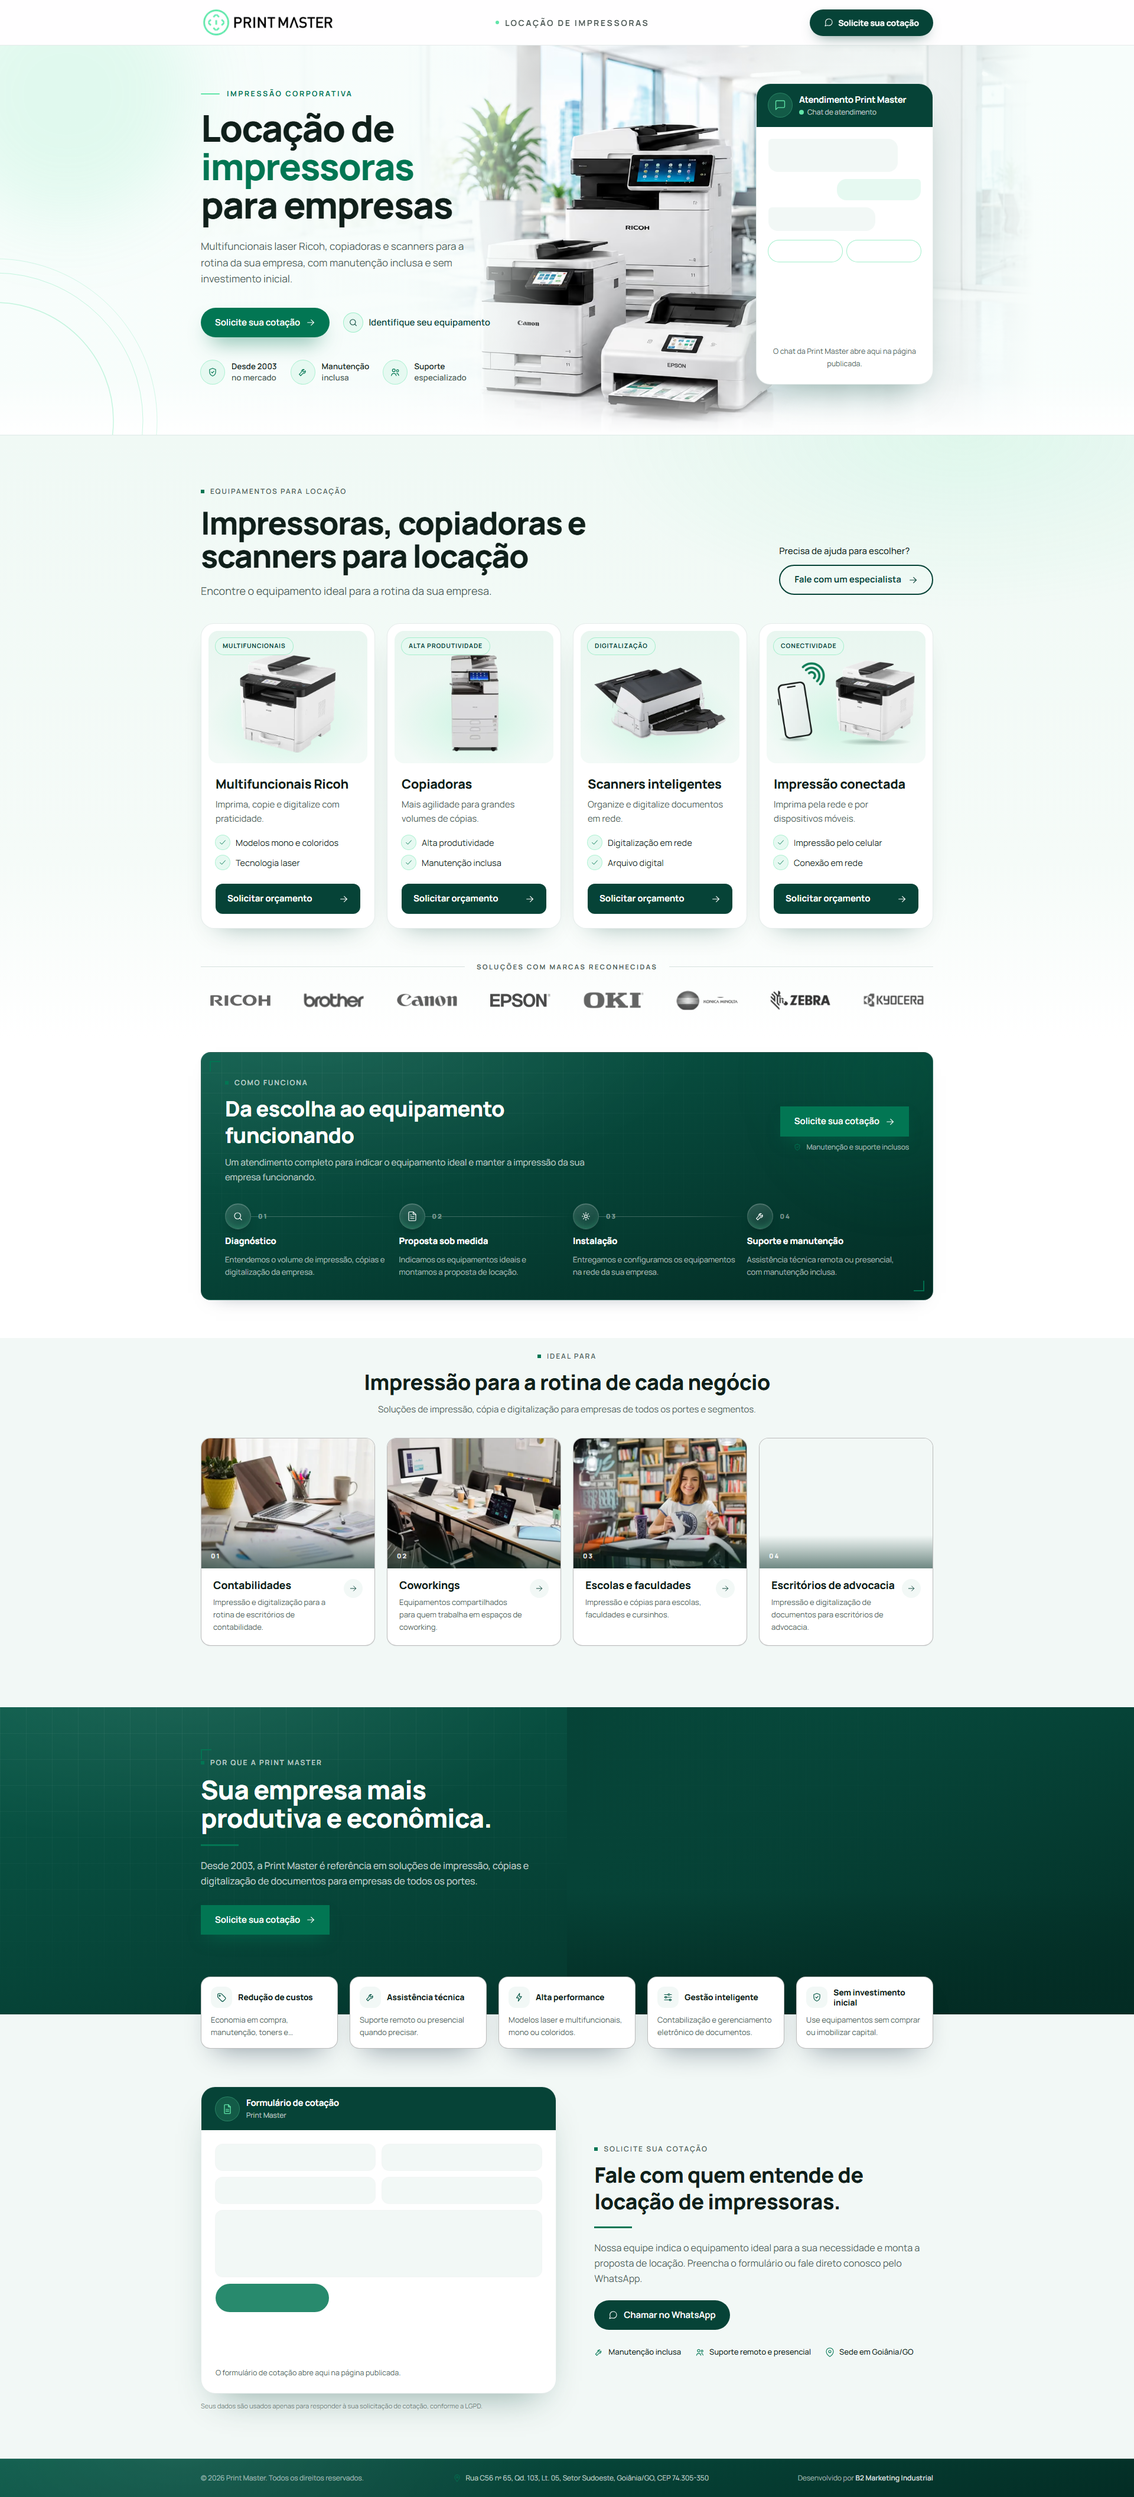
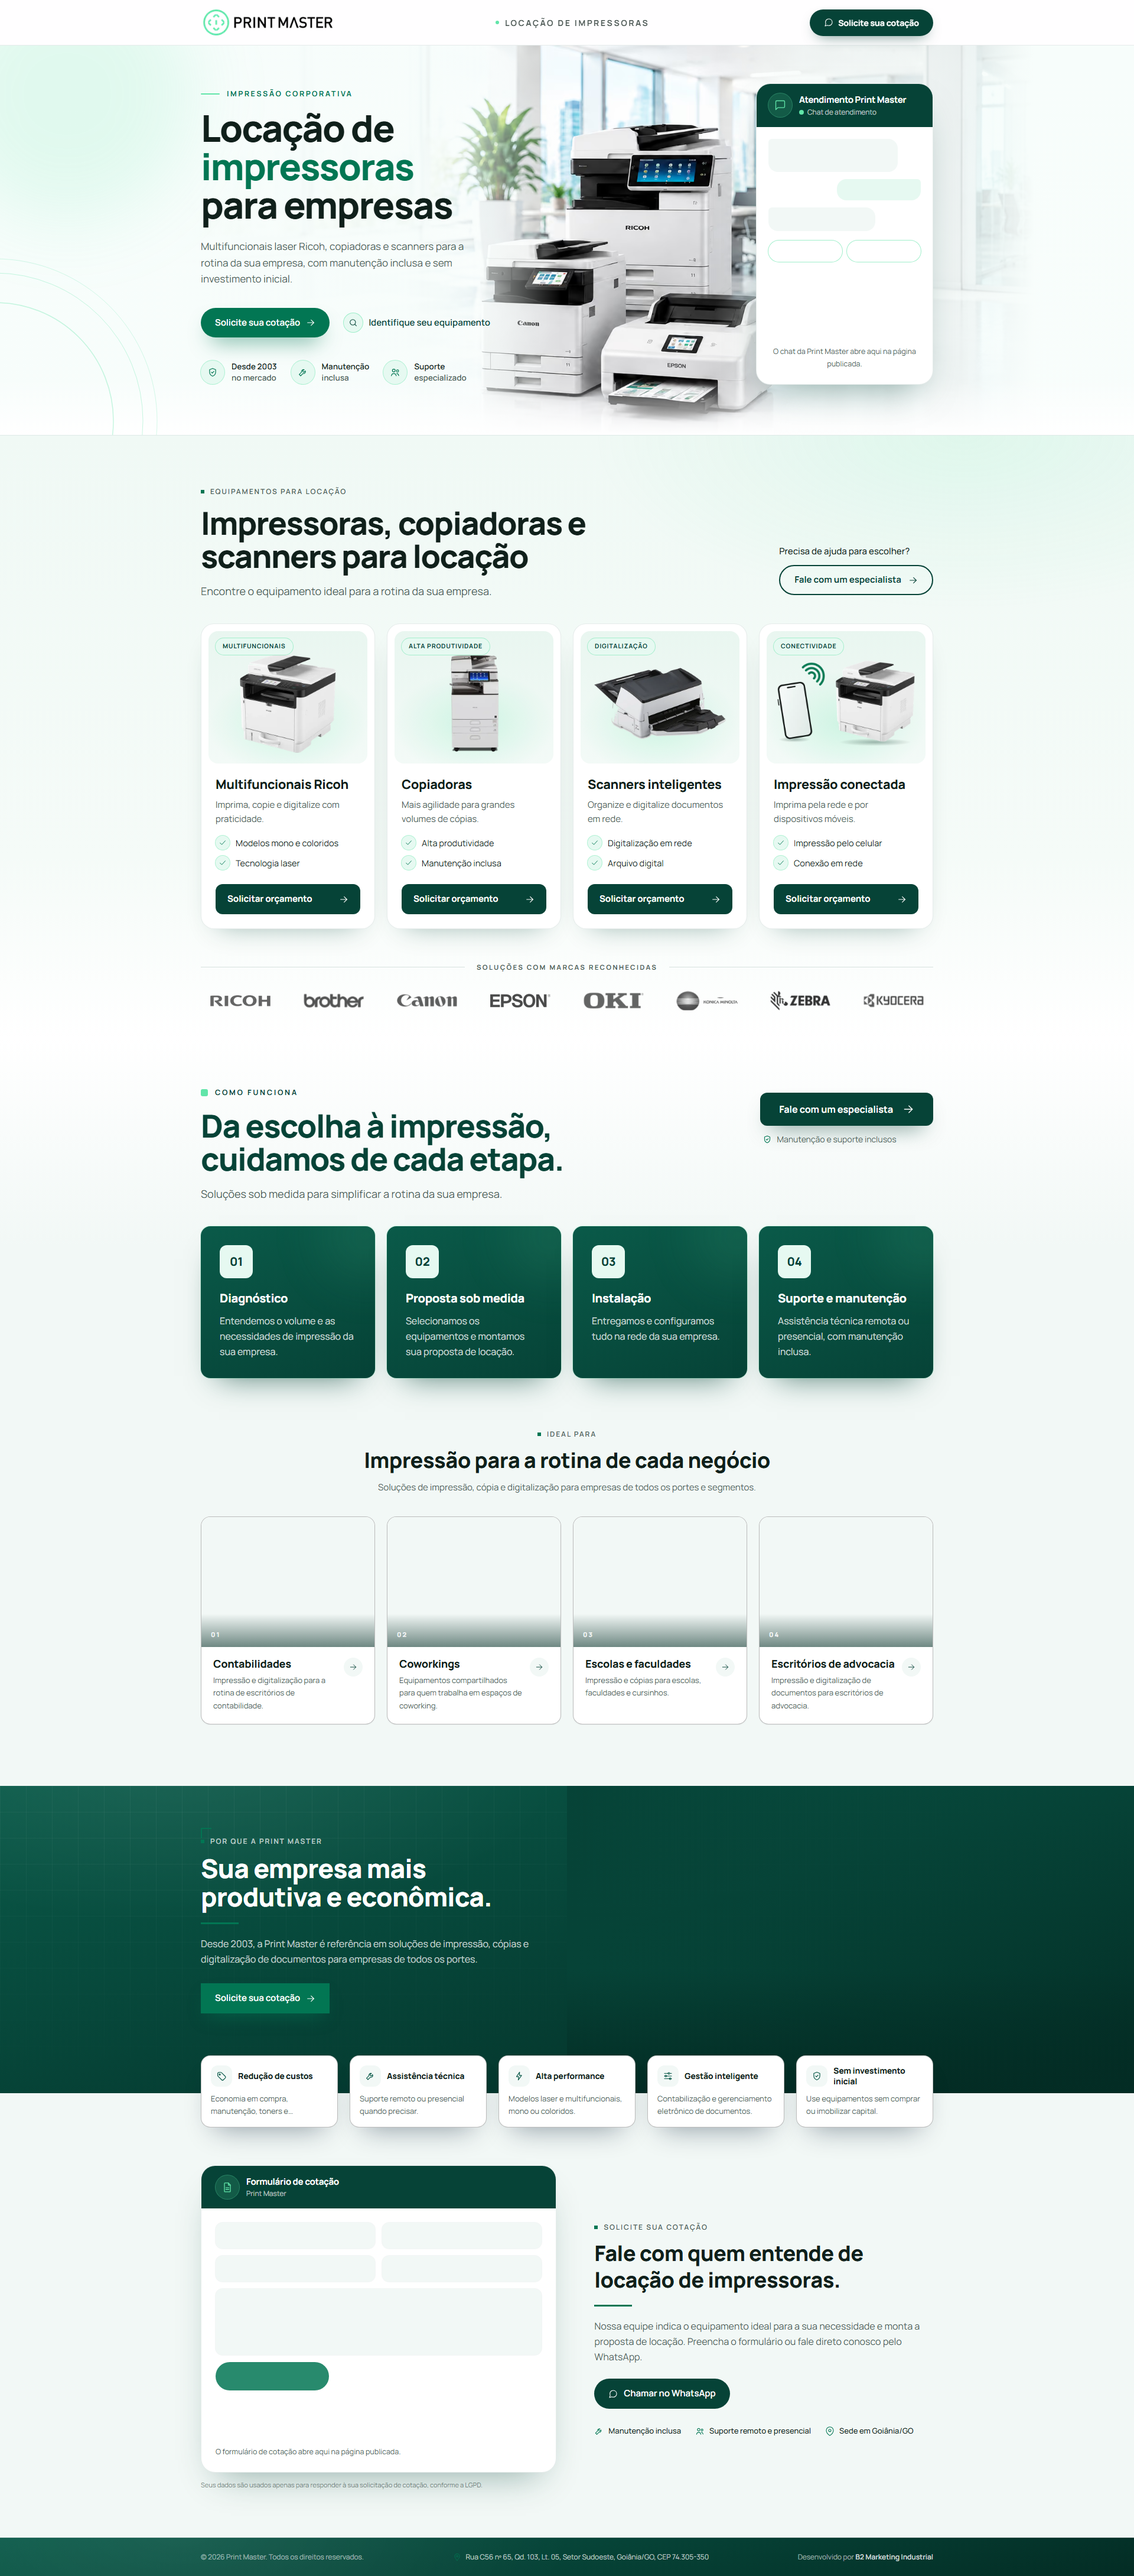
feat: "Como funciona" no mockup da Print Master
- Cabeçalho claro: "Da escolha à impressão, cuidamos de cada etapa.",
  subtítulo curto, botão "Fale com um especialista" e a garantia
  "Manutenção e suporte inclusos" à direita.
- Etapas em 4 cards verde-escuros numerados, sem ícones, com os textos do
  mockup; o fundo sai do branco de linhas e chega ao cinza-menta de
  aplicacoes.
- Contrato de processo repinado em lp.manifest.json (sem icon).
- Faixa de marcas: logos sem distorção no celular.
- Ficha, BRIEFING e screenshots atualizados.

Changed region(s): [[0.0, 0.0, 1.0, 0.9368], [0.1875, 0.9056, 0.375, 0.9681], [0.6875, 0.0312, 0.8125, 0.0937]]

diff --git a/src/data/sections/processo.ts b/src/data/sections/processo.ts
@@ -1,17 +1,13 @@
 /**
  * Dados da seção "Como funciona" (biblioteca B2, fase: apoio).
  *
- * Alternativa ao painel de identificação para quando o atrito do visitante não é
- * "não sei o que pedir" e sim "não sei como isso acontece" — típico de serviço,
- * instalação, adequação a norma e contrato de manutenção.
- *
- * 4 a 6 etapas. Com 3 a promessa parece rasa; com 7 ninguém lê.
+ * Variante local da Print Master (mockup aprovado em 26/10/2026, docs/BRIEFING.md):
+ * cabeçalho claro com botão à direita e 4 cards verde-escuros numerados, sem ícones.
+ * O contrato repinado (sem `icon`) está em `lp.manifest.json`.
  */
-import type { IconName } from '@data/icons'
 
 export interface ProcessStep {
   id: string
-  icon: IconName
   title: string
   description: string
   /** Prazo ou marco da etapa, 2–4 palavras. Opcional. */
@@ -26,37 +22,36 @@ export interface Process {
   eyebrow: string
   title: string
   text: string
+  /** Rótulo do botão da seção. */
+  cta: string
   microcopy: string
   steps: readonly ProcessStep[]
 }
 
 export const process: Process = {
   eyebrow: 'Como funciona',
-  title: 'Da escolha ao equipamento funcionando',
-  text: 'Um atendimento completo para indicar o equipamento ideal e manter a impressão da sua empresa funcionando.',
+  title: 'Da escolha à impressão, cuidamos de cada etapa.',
+  text: 'Soluções sob medida para simplificar a rotina da sua empresa.',
+  cta: 'Fale com um especialista',
   microcopy: 'Manutenção e suporte inclusos',
   steps: [
     {
       id: 'diagnostico',
-      icon: 'search',
       title: 'Diagnóstico',
-      description: 'Entendemos o volume de impressão, cópias e digitalização da empresa.',
+      description: 'Entendemos o volume e as necessidades de impressão da sua empresa.',
     },
     {
       id: 'proposta',
-      icon: 'file',
       title: 'Proposta sob medida',
-      description: 'Indicamos os equipamentos ideais e montamos a proposta de locação.',
+      description: 'Selecionamos os equipamentos e montamos sua proposta de locação.',
     },
     {
       id: 'instalacao',
-      icon: 'gear',
       title: 'Instalação',
-      description: 'Entregamos e configuramos os equipamentos na rede da sua empresa.',
+      description: 'Entregamos e configuramos tudo na rede da sua empresa.',
     },
     {
       id: 'suporte',
-      icon: 'wrench',
       title: 'Suporte e manutenção',
       description: 'Assistência técnica remota ou presencial, com manutenção inclusa.',
     },

diff --git a/docs/BRIEFING.md b/docs/BRIEFING.md
@@ -127,6 +127,7 @@ Derivada em: 26/10/2026 · comando aplicado: `npm run compose -- linhas processo
 - **Abertura refeita sobre o mockup do cliente (26/10/2026).** `Header.astro`: barra branca translúcida, logo sem a placa branca, tagline com marcador menta e CTA em pílula verde com ícone de WhatsApp — a ordem logo · tagline · CTA e a ausência de menu continuam as do padrão (o menu do mockup não entrou). `Hero.astro`: fundo claro, título em três linhas com o destaque `hero.highlight`, CTA primário em pílula, secundário como link com ícone, pontos curtos e a foto ancorada pelo centro do grupo de impressoras (53,5% da largura) no centro da coluna 2; no mobile a foto vira um card entre o texto e o chat. O grid de três colunas e a coluna de 300px do shortcode continuam. A assinatura A8 de `scripts/check-lp.mjs` foi repinada para essa abertura, como na LP de compressores de parafuso.
 - **Tokens da marca em toda a página** (`src/styles/global.css`): os nomes do padrão ficam, com os valores verdes — "navy" é o verde profundo e "orange" é o verde de ação. As sombras laranja fixas dos botões de `ProcessSteps.astro` e `WhyBrand.astro` passaram para a cor de ação; vale levar para a biblioteca uma sombra que use o token.
 - **`linhas` como no mockup aprovado (26/10/2026).** Fundo menta, título maior com subtítulo curto, "Precisa de ajuda para escolher?" com botão "Fale com um especialista" (`data-cta="linhas-ajuda"`), 4 cards brancos com foto grande em palco menta, etiqueta, 2 características e botão "Solicitar orçamento", sem card escuro, e a faixa "Soluções com marcas reconhecidas" com 8 logos em cinza. Os rótulos de CTA desta seção são os do mockup, não o vocabulário fixo. O contrato da seção foi repinado em `lp.manifest.json` (2 características, sem `exactlyOneTrue`) e o `scripts/ficha.mjs` local passou a usar o contrato da LP quando houver, o mesmo que o `check:lp` usa. Os recortes de `linha-1` e `linha-3` foram refeitos com limiar estrito, porque o fundo menta revelava o corpo branco "comido" pelo recorte antigo.
+- **`processo` como no mockup aprovado (26/10/2026).** Sai o painel verde-escuro; entra um cabeçalho claro com o título "Da escolha à impressão, cuidamos de cada etapa.", o botão "Fale com um especialista" e a garantia "Manutenção e suporte inclusos", e as 4 etapas em cards verde-escuros numerados, sem ícones — os cards fazem o papel do bloco escuro desta metade da página. Textos das etapas reescritos como no mockup. Contrato repinado em `lp.manifest.json` (sem `icon` nos itens).
 - **Prévia do chat fora do WordPress**: na Vercel o shortcode chega como texto cru; o Hero o esconde e mostra um card de prévia ("O chat da Print Master abre aqui na página publicada"). Só age quando o conteúdo é exatamente um shortcode e o domínio não é `printmaster.net.br`; no WordPress nada muda.
 - `Layout.astro`: o preload do LCP acompanha as larguras do banner novo (até 1870px) e os `sizes` do `<Picture>`.
 - **Fonte servida pelo próprio site**: o Manrope saiu do Google Fonts para `@fontsource-variable/manrope` (5.3.0), com preload do subconjunto latino no `Layout.astro` e reserva com métricas de Arial (`Arial`, `Helvetica`, `Liberation Sans`). Com a abertura nova, a troca tardia de fonte no runner Linux (reserva DejaVu, mais larga) deslocava o hero: CLS de 0,104 no Lighthouse CI, acima do limite de 0,1. Depois da mudança: CLS 0 e LCP ~0,5 s no Lighthouse local.

diff --git a/docs/FICHA-LP.md b/docs/FICHA-LP.md
@@ -190,25 +190,23 @@ blocos:
     veredicto: completo
     responde: [locacao-aluguel]
     papeis: [Administrativo, Compras]
+    # variante local do mockup aprovado em 26/10/2026: cards numerados, sem ícones
     eyebrow: Como funciona
-    title: Da escolha ao equipamento funcionando
+    title: Da escolha à impressão, cuidamos de cada etapa.
     microcopy: Manutenção e suporte inclusos
-    text: Um atendimento completo para indicar o equipamento ideal e manter a impressão da sua empresa funcionando.
+    text: Soluções sob medida para simplificar a rotina da sua empresa.
+    cta: Fale com um especialista
     steps:
       - id: diagnostico
-        icon: search
         title: Diagnóstico
-        description: Entendemos o volume de impressão, cópias e digitalização da empresa.
+        description: Entendemos o volume e as necessidades de impressão da sua empresa.
       - id: proposta
-        icon: file
         title: Proposta sob medida
-        description: Indicamos os equipamentos ideais e montamos a proposta de locação.
+        description: Selecionamos os equipamentos e montamos sua proposta de locação.
       - id: instalacao
-        icon: gear
         title: Instalação
-        description: Entregamos e configuramos os equipamentos na rede da sua empresa.
+        description: Entregamos e configuramos tudo na rede da sua empresa.
       - id: suporte
-        icon: wrench
         title: Suporte e manutenção
         description: Assistência técnica remota ou presencial, com manutenção inclusa.
 
